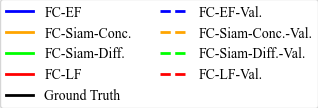
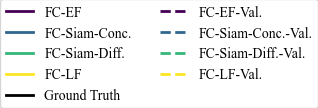
Extended the modification to all datasets

diff --git a/pytorch_datasets/cscd_dataset_loader.py b/pytorch_datasets/cscd_dataset_loader.py
@@ -1,4 +1,7 @@
+from math import ceil
 import sys
+
+from num_objects import get_number_of_objects
 
 sys.path.insert(1, '../siamese_fcn')
 sys.path.insert(1, '../pytorch_datasets')
@@ -22,7 +25,7 @@ import torch
 
 class CSCD_Dataset(Dataset):
 
-    def __init__(self, dirname, set_name, FP_MODIFIER):
+    def __init__(self, dirname, set_name, FP_MODIFIER, patch_side = 96, transform=None):
         self.imgs_1 = {}
         self.imgs_2 = {}
         self.change_maps = {}
@@ -35,9 +38,17 @@ class CSCD_Dataset(Dataset):
         self.items = []
         n_pix = 0
         true_pix = 0
-
+        
+        self.transform = transform
+        self.patch_side = patch_side
+        self.stride = int(patch_side/2) - 1
+        self.n_patches_per_image = {}
+        self.n_patches = 0
+        self.patch_coords = []
+        
         situation_dict = {}
         num_changes_dict = {}
+        
         with open(os.path.join(dirname, set_name, "situation_labels.csv"), newline='') as csvfile:
             reader = csv.DictReader(csvfile)
             for row in reader:
@@ -57,20 +68,38 @@ class CSCD_Dataset(Dataset):
             label = cv2.imread(os.path.join(dirname, set_name, "label", name), cv2.IMREAD_GRAYSCALE)
             label = (label - np.min(label)) / (np.ptp(label)) if np.ptp(label) != 0 else np.zeros_like(label)
             situation = situation_dict[name]
-            n_changes = num_changes_dict[name]
+            # n_changes = num_changes_dict[name]
 
 
             self.imgs_1[img_name] = a
             self.imgs_2[img_name] = b
             self.change_maps[img_name] = label
             self.situations[img_name] = situation
-            self.num_changes[img_name] = n_changes
+            # self.num_changes[img_name] = n_changes
+            
+
 
             s = label.shape
             n_pix += np.prod(s)
             true_pix += label.sum()
+            
+            s = self.imgs_1[img_name].shape
+            n1 = ceil((s[1] - self.patch_side + 1) / self.stride)
+            n2 = ceil((s[2] - self.patch_side + 1) / self.stride)
+            n_patches_i = n1 * n2
+            self.n_patches_per_image[img_name] = n_patches_i
+            self.n_patches += n_patches_i
+            
+            for i in range(n1):
+                for j in range(n2):
+                    # coordinates in (x1, x2, y1, y2)
+                    current_patch_coords = (img_name, 
+                                    [self.stride*i, self.stride*i + self.patch_side, self.stride*j, self.stride*j + self.patch_side],
+                                    [self.stride*(i + 1), self.stride*(j + 1)])
+                    self.patch_coords.append(current_patch_coords)
 
-            self.items.append((a, b, label, situation, n_changes))
+
+            # self.items.append((a, b, label, situation, n_changes))
 
 
         self.weights = [  2 * FP_MODIFIER * true_pix / n_pix,  2 * (n_pix - true_pix) / n_pix]
@@ -79,15 +108,33 @@ class CSCD_Dataset(Dataset):
         return self.imgs_1[im_name], self.imgs_2[im_name], self.change_maps[im_name], self.situations[im_name], self.num_changes[im_name]
 
     def __len__(self):
-        return len(self.items)
+        return self.n_patches
 
     def __getitem__(self, idx):
-        I1, I2, label, situation, num_changes = self.items[idx]
+        # I1, I2, label, situation, num_changes = self.items[idx]
 
-        label = torch.tensor(label, dtype=torch.float32)
+        # label = torch.tensor(label, dtype=torch.float32)
 
-        sample = {'I1': I1, 'I2': I2, 'label': label, "situation": situation, "num_changes": num_changes}
+        # sample = {'I1': I1, 'I2': I2, 'label': label, "situation": situation, "num_changes": num_changes}
 
+
+        # return sample
+        current_patch_coords = self.patch_coords[idx]
+        im_name = current_patch_coords[0]
+        limits = current_patch_coords[1]
+        centre = current_patch_coords[2]
+        
+        I1 = self.imgs_1[im_name][:, limits[0]:limits[1], limits[2]:limits[3]]
+        I2 = self.imgs_2[im_name][:, limits[0]:limits[1], limits[2]:limits[3]]
+        
+        label = self.change_maps[im_name][limits[0]:limits[1], limits[2]:limits[3]]
+        label = torch.from_numpy(1*np.array(label)).float()
+        num_changes = get_number_of_objects(label)
+        
+        sample = {'I1': I1, 'I2': I2, 'label': label, "num_changes" : num_changes}
+        
+        if self.transform:
+            sample = self.transform(sample)
 
         return sample
 

diff --git a/pytorch_datasets/hiucd_dataset_loader.py b/pytorch_datasets/hiucd_dataset_loader.py
@@ -1,5 +1,7 @@
 import sys
 
+import torch
+
 from num_objects import get_number_of_objects
 
 sys.path.insert(1, '../siamese_fcn')
@@ -23,7 +25,7 @@ from math import ceil
 
 class HIUCD_Dataset(Dataset):
 
-    def __init__(self, dirname, set_name, FP_MODIFIER):
+    def __init__(self, dirname, set_name, FP_MODIFIER, patch_side = 96, transform=None):
         self.imgs_1 = {}
         self.imgs_2 = {}
         self.change_maps = {}
@@ -35,6 +37,13 @@ class HIUCD_Dataset(Dataset):
         self.names = []
         n_pix = 0
         true_pix = 0
+        
+        self.transform = transform
+        self.patch_side = patch_side
+        self.stride = int(patch_side/2) - 1
+        self.n_patches_per_image = {}
+        self.n_patches = 0
+        self.patch_coords = []
         
         
         
@@ -59,11 +68,26 @@ class HIUCD_Dataset(Dataset):
             self.imgs_2[img_name] = b
             self.change_maps[img_name] = label.astype(np.uint8) 
             self.land_covers[img_name] = landcover_label
-            self.num_changes[img_name] = get_number_of_objects(label)
+            # self.num_changes[img_name] = get_number_of_objects(label)
 
             s = label.shape
             n_pix += np.prod(s)
             true_pix += label.sum()
+            
+            s = self.imgs_1[img_name].shape
+            n1 = ceil((s[1] - self.patch_side + 1) / self.stride)
+            n2 = ceil((s[2] - self.patch_side + 1) / self.stride)
+            n_patches_i = n1 * n2
+            self.n_patches_per_image[img_name] = n_patches_i
+            self.n_patches += n_patches_i
+            
+            for i in range(n1):
+                for j in range(n2):
+                    # coordinates in (x1, x2, y1, y2)
+                    current_patch_coords = (img_name, 
+                                    [self.stride*i, self.stride*i + self.patch_side, self.stride*j, self.stride*j + self.patch_side],
+                                    [self.stride*(i + 1), self.stride*(j + 1)], landcover_label)
+                    self.patch_coords.append(current_patch_coords)
 
         self.weights = [ FP_MODIFIER * 2 * true_pix / n_pix, 2 * (n_pix - true_pix) / n_pix]
 
@@ -71,17 +95,39 @@ class HIUCD_Dataset(Dataset):
         return self.imgs_1[im_name], self.imgs_2[im_name], self.change_maps[im_name], self.land_covers[im_name], self.num_changes[im_name]
 
     def __len__(self):
-        return len(self.imgs_1)
+        return self.n_patches
 
     def __getitem__(self, idx):
-        im_name = list(self.imgs_1.keys())[idx]
+        # im_name = list(self.imgs_1.keys())[idx]
 
-        I1 = self.imgs_1[im_name]
-        I2 = self.imgs_2[im_name]
-        label = self.change_maps[im_name]
-        landcover_labels = self.land_covers[im_name]
-        num_changes = self.num_changes[im_name]
+        # I1 = self.imgs_1[im_name]
+        # I2 = self.imgs_2[im_name]
+        # label = self.change_maps[im_name]
+        # landcover_labels = self.land_covers[im_name]
+        # num_changes = self.num_changes[im_name]
         
-        return {'I1': I1, 'I2': I2, 'label': label, "landcover": landcover_labels, "num_changes" : num_changes}
+        # return {'I1': I1, 'I2': I2, 'label': label, "landcover": landcover_labels, "num_changes" : num_changes}
+        
+        current_patch_coords = self.patch_coords[idx]
+        im_name = current_patch_coords[0]
+        limits = current_patch_coords[1]
+        centre = current_patch_coords[2]
+        
+        
+        I1 = self.imgs_1[im_name][:, limits[0]:limits[1], limits[2]:limits[3]]
+        I2 = self.imgs_2[im_name][:, limits[0]:limits[1], limits[2]:limits[3]]
+        
+        label = self.change_maps[im_name][limits[0]:limits[1], limits[2]:limits[3]]
+        label = torch.from_numpy(1*np.array(label)).float()
+        num_changes = get_number_of_objects(label)
+        landcover = current_patch_coords[3]
+        
+        sample = {'I1': I1, 'I2': I2, 'label': label, "landcover": landcover, "num_changes" : num_changes}
+        
+        if self.transform:
+            sample = self.transform(sample)
+
+        return sample
+    
 
 

diff --git a/pytorch_datasets/hrscd_dataset_loader.py b/pytorch_datasets/hrscd_dataset_loader.py
@@ -1,5 +1,7 @@
 import sys
 
+import torch
+
 from num_objects import get_number_of_objects
 
 sys.path.insert(1, '../siamese_fcn')
@@ -23,7 +25,7 @@ from math import ceil
 
 class HRSCD_Dataset(Dataset):
 
-    def __init__(self, dirname, set_name, FP_MODIFIER):
+    def __init__(self, dirname, set_name, FP_MODIFIER, patch_side = 96, transform=None):
         self.imgs_1 = {}
         self.imgs_2 = {}
         self.change_maps = {}
@@ -35,6 +37,14 @@ class HRSCD_Dataset(Dataset):
         self.names = []
         n_pix = 0
         true_pix = 0
+        
+        self.transform = transform
+        self.patch_side = patch_side
+        self.stride = int(patch_side/2) - 1
+        self.n_patches_per_image = {}
+        self.n_patches = 0
+        self.patch_coords = []
+        
 
 
         for name in os.listdir(os.path.join(dirname,set_name, "A")):
@@ -53,11 +63,27 @@ class HRSCD_Dataset(Dataset):
             self.imgs_2[img_name] = b
             self.change_maps[img_name] = label.astype(np.uint8)
             self.land_cover_1[img_name] = land_cover_1
-            self.num_changes[img_name] = get_number_of_objects(label)
+            # self.num_changes[img_name] = get_number_of_objects(label)
 
             s = label.shape
             n_pix += np.prod(s)
             true_pix += label.sum()
+            
+            s = self.imgs_1[img_name].shape
+            n1 = ceil((s[1] - self.patch_side + 1) / self.stride)
+            n2 = ceil((s[2] - self.patch_side + 1) / self.stride)
+            n_patches_i = n1 * n2
+            self.n_patches_per_image[img_name] = n_patches_i
+            self.n_patches += n_patches_i
+            
+            # generate path coordinates
+            for i in range(n1):
+                for j in range(n2):
+                    # coordinates in (x1, x2, y1, y2)
+                    current_patch_coords = (img_name, 
+                                    [self.stride*i, self.stride*i + self.patch_side, self.stride*j, self.stride*j + self.patch_side],
+                                    [self.stride*(i + 1), self.stride*(j + 1)])
+                    self.patch_coords.append(current_patch_coords)
 
         self.weights = [ FP_MODIFIER * 2 * true_pix / n_pix, 2 * (n_pix - true_pix) / n_pix]
 
@@ -65,17 +91,28 @@ class HRSCD_Dataset(Dataset):
         return self.imgs_1[im_name], self.imgs_2[im_name], self.change_maps[im_name], self.land_cover_1[im_name], self.num_changes[im_name]
 
     def __len__(self):
-        return len(self.imgs_1)
+        return self.n_patches
 
     def __getitem__(self, idx):
-        im_name = list(self.imgs_1.keys())[idx]
-
-        I1 = self.imgs_1[im_name]
-        I2 = self.imgs_2[im_name]
-        label = self.change_maps[im_name]
-        landcover_labels_1 = self.land_cover_1[im_name]
-        num_changes = self.num_changes[im_name]
+        current_patch_coords = self.patch_coords[idx]
+        im_name = current_patch_coords[0]
+        limits = current_patch_coords[1]
+        centre = current_patch_coords[2]
         
-        return {'I1': I1, 'I2': I2, 'label': label, "landcover": landcover_labels_1, "num_changes" : num_changes}
+        
+        I1 = self.imgs_1[im_name][:, limits[0]:limits[1], limits[2]:limits[3]]
+        I2 = self.imgs_2[im_name][:, limits[0]:limits[1], limits[2]:limits[3]]
+        
+        label = self.change_maps[im_name][limits[0]:limits[1], limits[2]:limits[3]]
+        label = torch.from_numpy(1*np.array(label)).float()
+        num_changes = get_number_of_objects(label)
+        landcover = current_patch_coords[3]
+        
+        sample = {'I1': I1, 'I2': I2, 'label': label, "landcover": landcover, "num_changes" : num_changes}
+        
+        if self.transform:
+            sample = self.transform(sample)
+
+        return sample
 
 

diff --git a/visualization/generate_legend.py b/visualization/generate_legend.py
@@ -1,5 +1,6 @@
 import matplotlib.pyplot as plt 
 from matplotlib.pyplot import rcParams
+import numpy as np
 
 
 # ===============================================================
@@ -10,16 +11,20 @@ from matplotlib.pyplot import rcParams
 
 
 rcParams["font.family"] = "Times New Roman"
+n = 4
+
+# Create a list of n distinct colors
+arr = plt.cm.viridis(np.linspace(0, 1, n))
 
 colors = {
-    "FC-EF": 'blue', 
-    "FC-Siam-Conc.": 'orange', 
-    "FC-Siam-Diff.": 'lime', 
-    "FC-LF": 'red',
-    "FC-EF-Val.": 'blue', 
-    "FC-Siam-Conc.-Val.": 'orange', 
-    "FC-Siam-Diff.-Val.": 'lime', 
-    "FC-LF-Val.": 'red'
+    "FC-EF": arr[0], 
+    "FC-Siam-Conc.":  arr[1], 
+    "FC-Siam-Diff.": arr[2], 
+    "FC-LF": arr[3],
+    "FC-EF-Val.": arr[0], 
+    "FC-Siam-Conc.-Val.": arr[1], 
+    "FC-Siam-Diff.-Val.": arr[2], 
+    "FC-LF-Val.": arr[3]
 }
 
 custom_lines = [

diff --git a/experiment.py b/experiment.py
@@ -80,9 +80,8 @@ def run_experiment(experiment_name, dataset_name, datasets, dataset_loaders, cri
     device = torch.device("cuda" if torch.cuda.is_available() else "cpu")
  
     aggregate_categorical = []
+    
     n = 4
-
-    # Create a list of n distinct colors
     arr = plt.cm.viridis(np.linspace(0, 1, n))
     colors = {"Early":  arr[0], "Middle-Conc": arr[1], "Middle-Diff": arr[2], "Late": arr[3]}
     # colors = {"Early": 'blue', "Middle-Conc": 'orange', "Middle-Diff": 'lime', "Late": 'red'}
